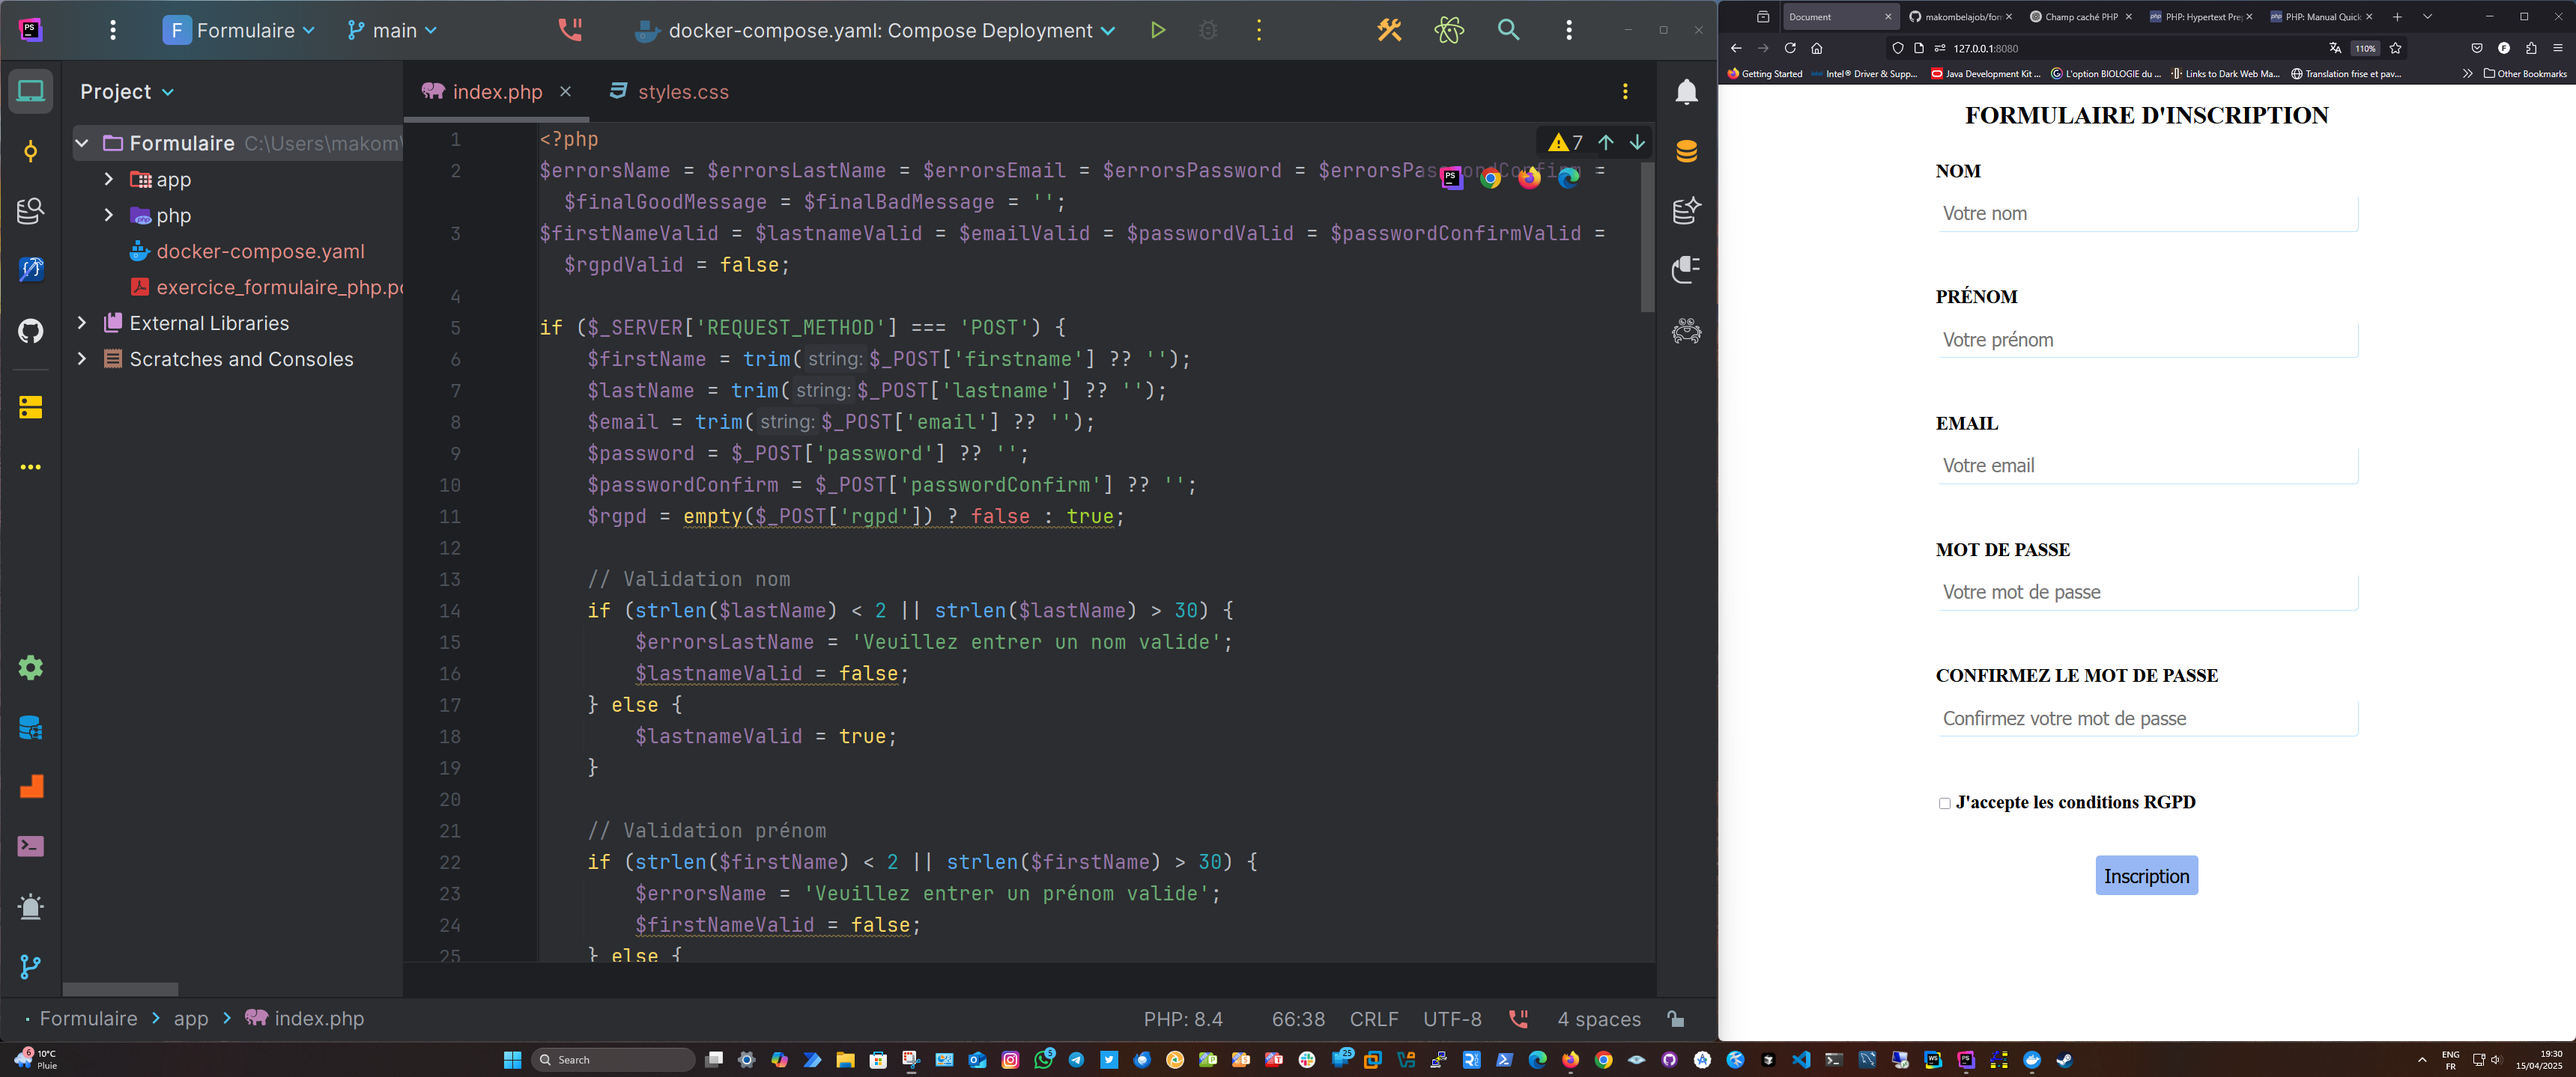
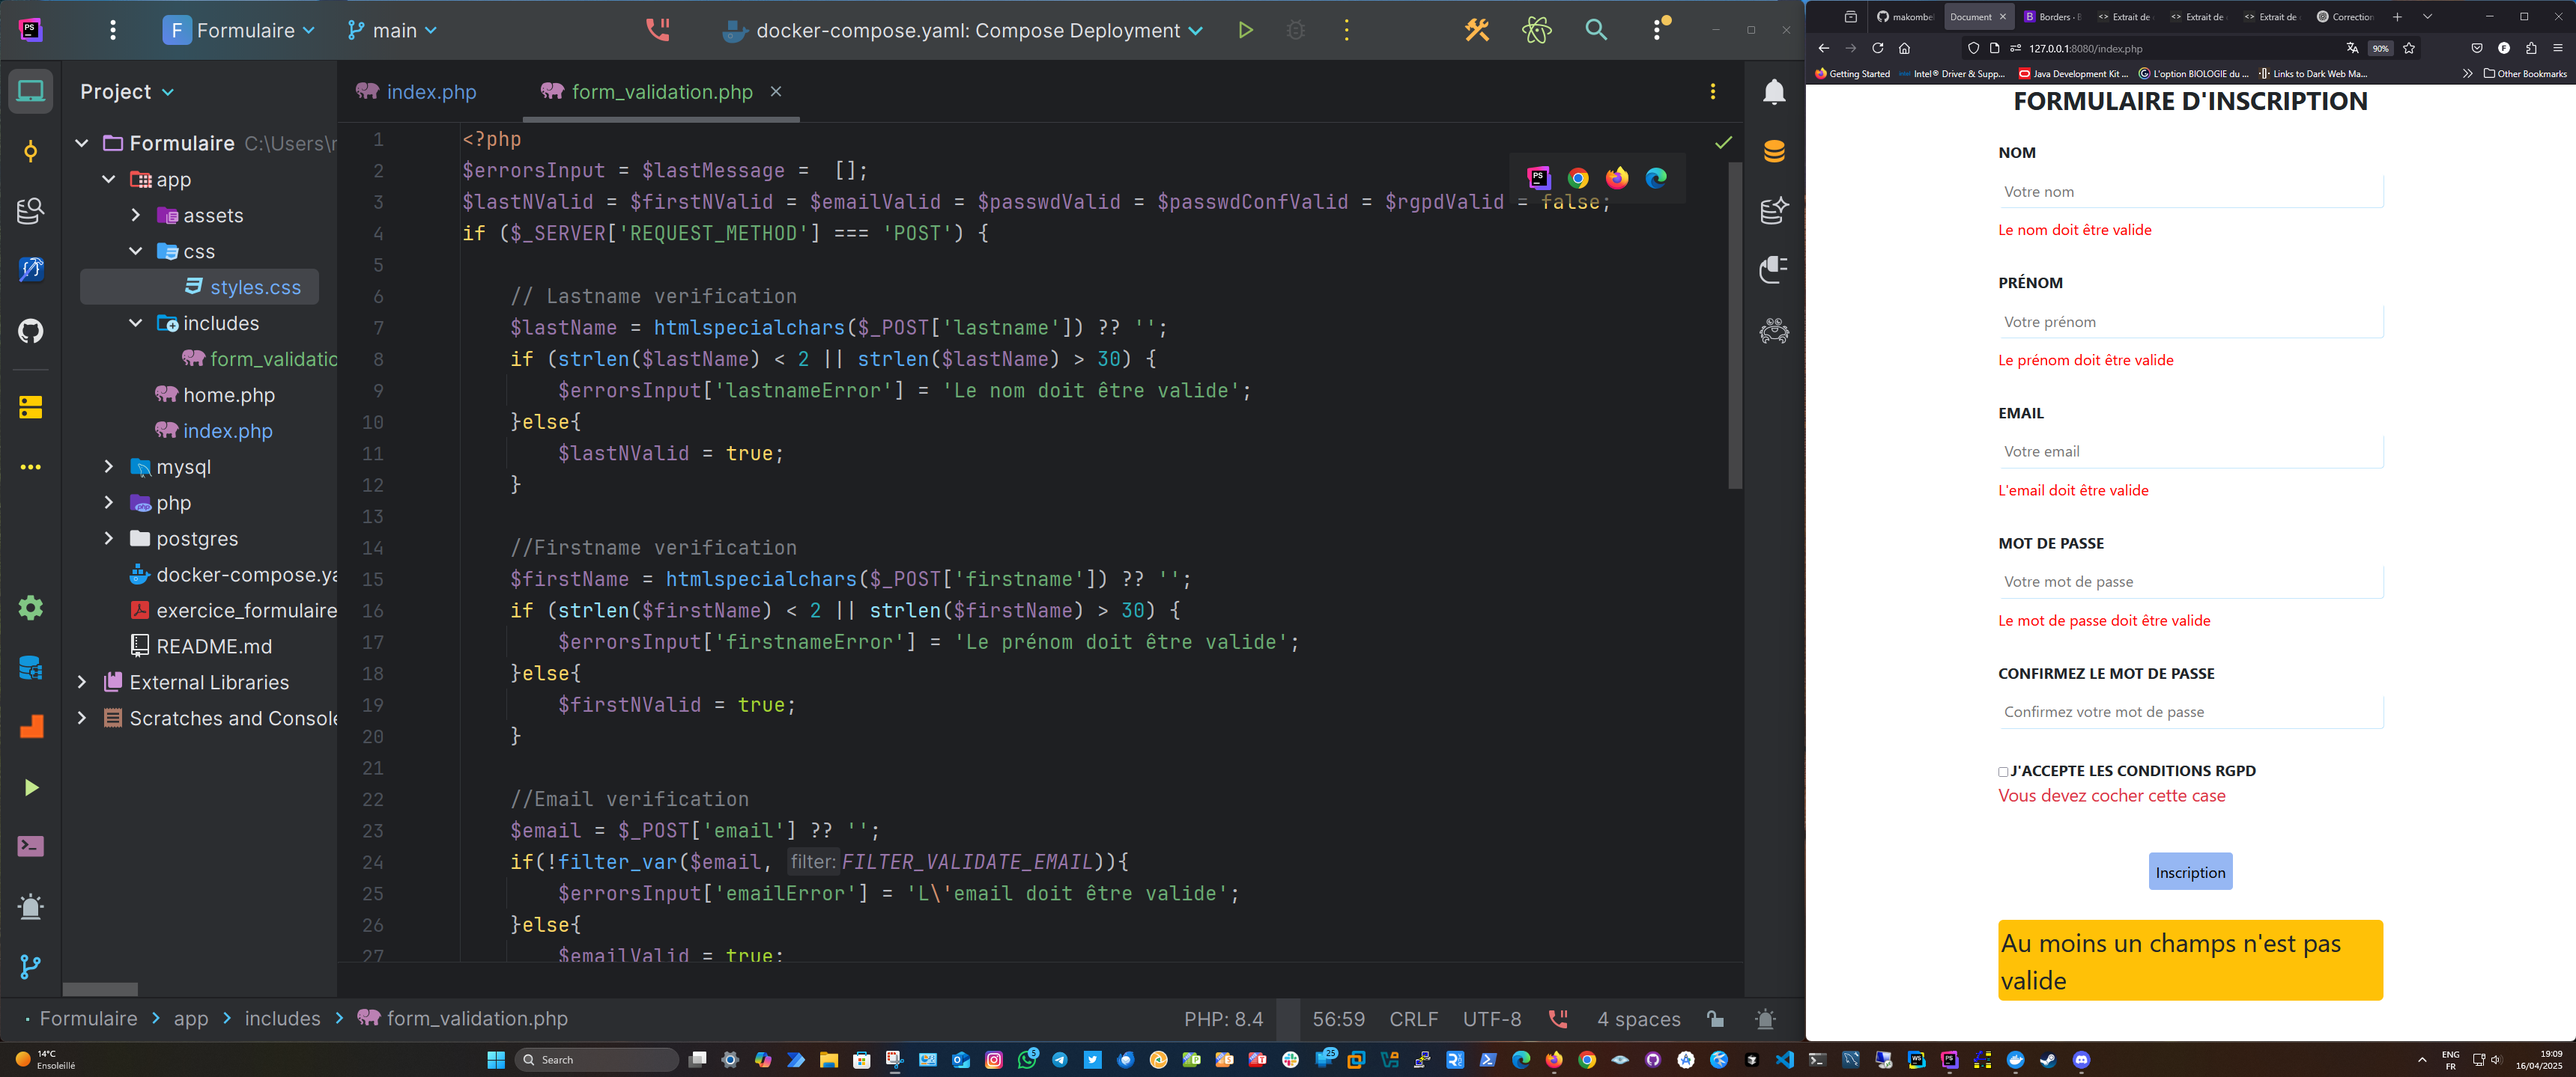
verification finished

diff --git a/app/css/styles.css b/app/css/styles.css
@@ -43,7 +43,8 @@ body{
             .firstname,
             .email,
             .password,
-            .passwordConfirm {
+            .passwordConfirm,
+            .rgpd{
                 label{
                     text-transform: uppercase;
                 }

diff --git a/app/index.php b/app/index.php
@@ -1,73 +1,5 @@
 <?php
-$errorsName = $errorsLastName = $errorsEmail = $errorsPassword = $errorsPasswordConfirm = $finalGoodMessage = $finalBadMessage = '';
-$firstNameValid = $lastnameValid = $emailValid = $passwordValid = $passwordConfirmValid = $rgpdValid = false;
-
-if ($_SERVER['REQUEST_METHOD'] === 'POST') {
-    $firstName = trim($_POST['firstname'] ?? '');
-    $lastName = trim($_POST['lastname'] ?? '');
-    $email = trim($_POST['email'] ?? '');
-    $password = $_POST['password'] ?? '';
-    $passwordConfirm = $_POST['passwordConfirm'] ?? '';
-    $rgpd = empty($_POST['rgpd']) ? false : true;
-
-    // Validation nom
-    if (strlen($lastName) < 2 || strlen($lastName) > 30) {
-        $errorsLastName = 'Veuillez entrer un nom valide';
-        $lastnameValid = false;
-    } else {
-        $lastnameValid = true;
-    }
-
-    // Validation prénom
-    if (strlen($firstName) < 2 || strlen($firstName) > 30) {
-        $errorsName = 'Veuillez entrer un prénom valide';
-        $firstNameValid = false;
-    } else {
-        $firstNameValid = true;
-    }
-
-    // Validation email
-    if (empty($email) || !filter_var($email, FILTER_VALIDATE_EMAIL)) {
-        $errorsEmail = 'Veuillez entrer un email valide';
-        $emailValid = false;
-    } else {
-        $emailValid = true;
-    }
-
-    // Validation mot de passe
-    if (empty($password)) {
-        $errorsPassword = 'Veuillez entrer un mot de passe';
-        $passwordValid = false;
-    } else {
-        $passwordValid = true;
-    }
-
-    // Validation confirmation du mot de passe
-    if (empty($passwordConfirm)) {
-        $errorsPasswordConfirm = 'Veuillez confirmer votre mot de passe';
-        $passwordConfirmValid = false;
-    } elseif ($password !== $passwordConfirm) {
-        $errorsPasswordConfirm = 'Les mots de passe ne correspondent pas';
-        $passwordConfirmValid = false;
-    } else {
-        $passwordConfirmValid = true;
-    }
-
-    // Validation RGPD
-    $rgpdValid = $rgpd;
-
-    // Traitement final si tout est valide
-    if(
-        $firstNameValid && $lastnameValid && $emailValid &&
-        $passwordValid && $passwordConfirmValid && $rgpdValid
-    ) {
-        // Enregistrements, envoi en base de données ou autre traitement
-        $finalGoodMessage =  'Inscription réussie !';
-        header('Location: home.php');
-    }else{
-        $finalBadMessage = 'Au moins un champs n\'est pas valid';
-    }
-}
+require_once 'includes/form_validation.php';
 ?>
 <!doctype html>
 <html lang="fr">
@@ -76,53 +8,80 @@ if ($_SERVER['REQUEST_METHOD'] === 'POST') {
     <meta name="viewport"
           content="width=device-width, user-scalable=no, initial-scale=1.0, maximum-scale=1.0, minimum-scale=1.0">
     <meta http-equiv="X-UA-Compatible" content="ie=edge">
+    <link rel="stylesheet" href="https://cdn.jsdelivr.net/npm/bootstrap@5.3.5/dist/css/bootstrap.min.css">
     <link rel="stylesheet" href="css/styles.css">
     <title>Document</title>
 </head>
 <body>
-    <main>
-        <h1>Formulaire d'inscription</h1>
-        <form action="index.php" method="POST">
-            <div class="name">
-                <label for="lastname">Nom</label>
-                <input type="text" id="lastname" name="lastname" placeholder="Votre nom" value="" />
-                <p class="errors"><?= $errorsLastName ?></p>
-            </div>
+<main>
+    <h1>Formulaire d'inscription</h1>
+    <form action="" method="POST">
+        <div class="name">
+            <label for="lastname">Nom</label>
+            <input type="text" id="lastname" name="lastname" placeholder="Votre nom" value="<?= $lastName ?? ''; ?>"/>
+            <?php if (isset($errorsInput['lastnameError'])) : ; ?>
+                <p class="errors"><?= $errorsInput['lastnameError']; ?></p>
+            <?php endif; ?>
+        </div>
 
-            <div class="firstname">
-                <label for="firstname">Prénom</label>
-                <input type="text" id="firstname" name="firstname" placeholder="Votre prénom" value="" />
-                <p class="errors"><?= $errorsName ?></p>
-            </div>
+        <!-- Firstname input -->
+        <div class="firstname">
+            <label for="firstname">Prénom</label>
+            <input type="text" id="firstname" name="firstname" placeholder="Votre prénom"
+                   value="<?= $firstName ?? ''; ?>"/>
+            <?php if (isset($errorsInput['firstnameError'])) : ; ?>
+                <p class="errors"><?= $errorsInput['firstnameError']; ?></p>
+            <?php endif; ?>
+        </div>
 
+        <!-- Email input -->
+        <div class="email">
+            <label for="email">Email</label>
+            <input type="text" id="email" name="email" placeholder="Votre email" value="<?= $email ?? ''; ?>"/>
+            <?php if (isset($errorsInput['emailError'])) : ; ?>
+                <p class="errors"><?= $errorsInput['emailError']; ?></p>
+            <?php endif; ?>
+        </div>
 
-            <div class="email">
-                <label for="email">Email</label>
-                <input type="text" id="email" name="email" placeholder="Votre email" value="" />
-                <p class="errors"><?= $errorsEmail ?></p>
-            </div>
+        <!-- password input -->
+        <div class="password">
+            <label for="password">Mot de passe</label>
+            <input type="password" id="password" name="password" placeholder="Votre mot de passe"/>
+            <?php if (isset($errorsInput['pwdError'])) : ; ?>
+                <p class="errors"><?= $errorsInput['pwdError']; ?></p>
+            <?php endif; ?>
+        </div>
 
-            <div class="password">
-                <label for="password">Mot de passe</label>
-                <input type="password" id="password" name="password" placeholder="Votre mot de passe" />
-                <p class="errors"><?= $errorsPassword ?></p>
-            </div>
+        <!-- Password Confirm input -->
+        <div class="passwordConfirm">
+            <label for="passwordConfirm">Confirmez le mot de passe</label>
+            <input type="password" id="passwordConfirm" name="passwordConfirm"
+                   placeholder="Confirmez votre mot de passe"/>
+            <?php if (isset($errorsInput['pwdConfError'])) : ; ?>
+                <p class="errors"><?= $errorsInput['pwdConfError']; ?></p>
+            <?php endif; ?>
+        </div>
 
-            <div class="passwordConfirm">
-                <label for="passwordConfirm">Confirmez le mot de passe</label>
-                <input type="password" id="passwordConfirm" name="passwordConfirm" placeholder="Confirmez votre mot de passe" />
-                <p class="errors"><?= $errorsPasswordConfirm ?></p>
-            </div>
+        <!-- RGPD check -->
+        <div class="rgpd">
+            <input type="checkbox" id="rgpd" name="rgpd" value="<?= $rgpd ?? '';?>"/>
+            <label for="rgpd">J'accepte les conditions RGPD</label>
+            <?php if (isset($errorsInput['rgpdError'])) : ; ?>
+                <p class="text-danger fs-3"><?= $errorsInput['rgpdError']; ?></p>
+            <?php endif; ?>
+        </div>
 
-            <div class="rgpd">
-                <input type="checkbox" id="rgpd" name="rgpd"/>
-                <label for="rgpd">J'accepte les conditions RGPD</label>
-            </div>
-
-            <div class="submit">
-                <button type="submit">Inscription</button>
-            </div>
-        </form>
-    </main>
+        <div class="submit">
+            <button type="submit">Inscription</button>
+        </div>
+    </form>
+    <div class="bg-warning rounded-3">
+        <?php
+        $message = $lastMessage['succes'] ?? $lastMessage['failed'] ?? '';
+        if(!empty($message)) :; ?>
+            <p class="fs-1 p-1 m-0"><?= $lastMessage['succes'] ?? $lastMessage['failed'] ?? '';?></p>
+        <?php endif; ?>
+    </div>
+</main>
 </body>
 </html>

diff --git a/app/includes/form_validation.php b/app/includes/form_validation.php
@@ -1,0 +1,60 @@
+<?php
+$errorsInput = $lastMessage =  [];
+$lastNValid = $firstNValid = $emailValid = $passwdValid = $passwdConfValid = $rgpdValid = false;
+if ($_SERVER['REQUEST_METHOD'] === 'POST') {
+
+    // Lastname verification
+    $lastName = htmlspecialchars($_POST['lastname']) ?? '';
+    if (strlen($lastName) < 2 || strlen($lastName) > 30) {
+        $errorsInput['lastnameError'] = 'Le nom doit être valide';
+    }else{
+        $lastNValid = true;
+    }
+
+    //Firstname verification
+    $firstName = htmlspecialchars($_POST['firstname']) ?? '';
+    if (strlen($firstName) < 2 || strlen($firstName) > 30) {
+        $errorsInput['firstnameError'] = 'Le prénom doit être valide';
+    }else{
+        $firstNValid = true;
+    }
+
+    //Email verification
+    $email = $_POST['email'] ?? '';
+    if(!filter_var($email, FILTER_VALIDATE_EMAIL)){
+        $errorsInput['emailError'] = 'L\'email doit être valide';
+    }else{
+        $emailValid = true;
+    }
+
+    //Password verification
+    $pwd = htmlspecialchars($_POST['password']);
+    if(strlen($pwd) < 5){
+        $errorsInput['pwdError'] = 'Le mot de passe doit être valide';
+    }else{
+        $passwdValid = true;
+    }
+
+    // Password Confirmation Verification
+    $pwdConf = htmlspecialchars($_POST['passwordConfirm']);
+    if($pwd !== $pwdConf){
+        $errorsInput['pwdConfError'] = 'Les mots de passes ne sont pas cohérants !';
+    }else{
+        $passwdConfValid = true;
+    }
+
+    //RGPD verification
+    $rgpd = isset($_POST['rgpd']) ?? '';
+    if(!$rgpd){
+        $errorsInput['rgpdError'] = 'Vous devez cocher cette case';
+    }else{
+        $rgpdValid = true;
+    }
+
+    if(empty($errorsInput)){
+        $lastName = $firstName = $email = $rgpd = '';
+        $lastMessage['succes'] = 'Inscriptiion reussie !';
+    } else{
+        $lastMessage['failed'] = 'Au moins un champs n\'est pas valide';
+    }
+}
